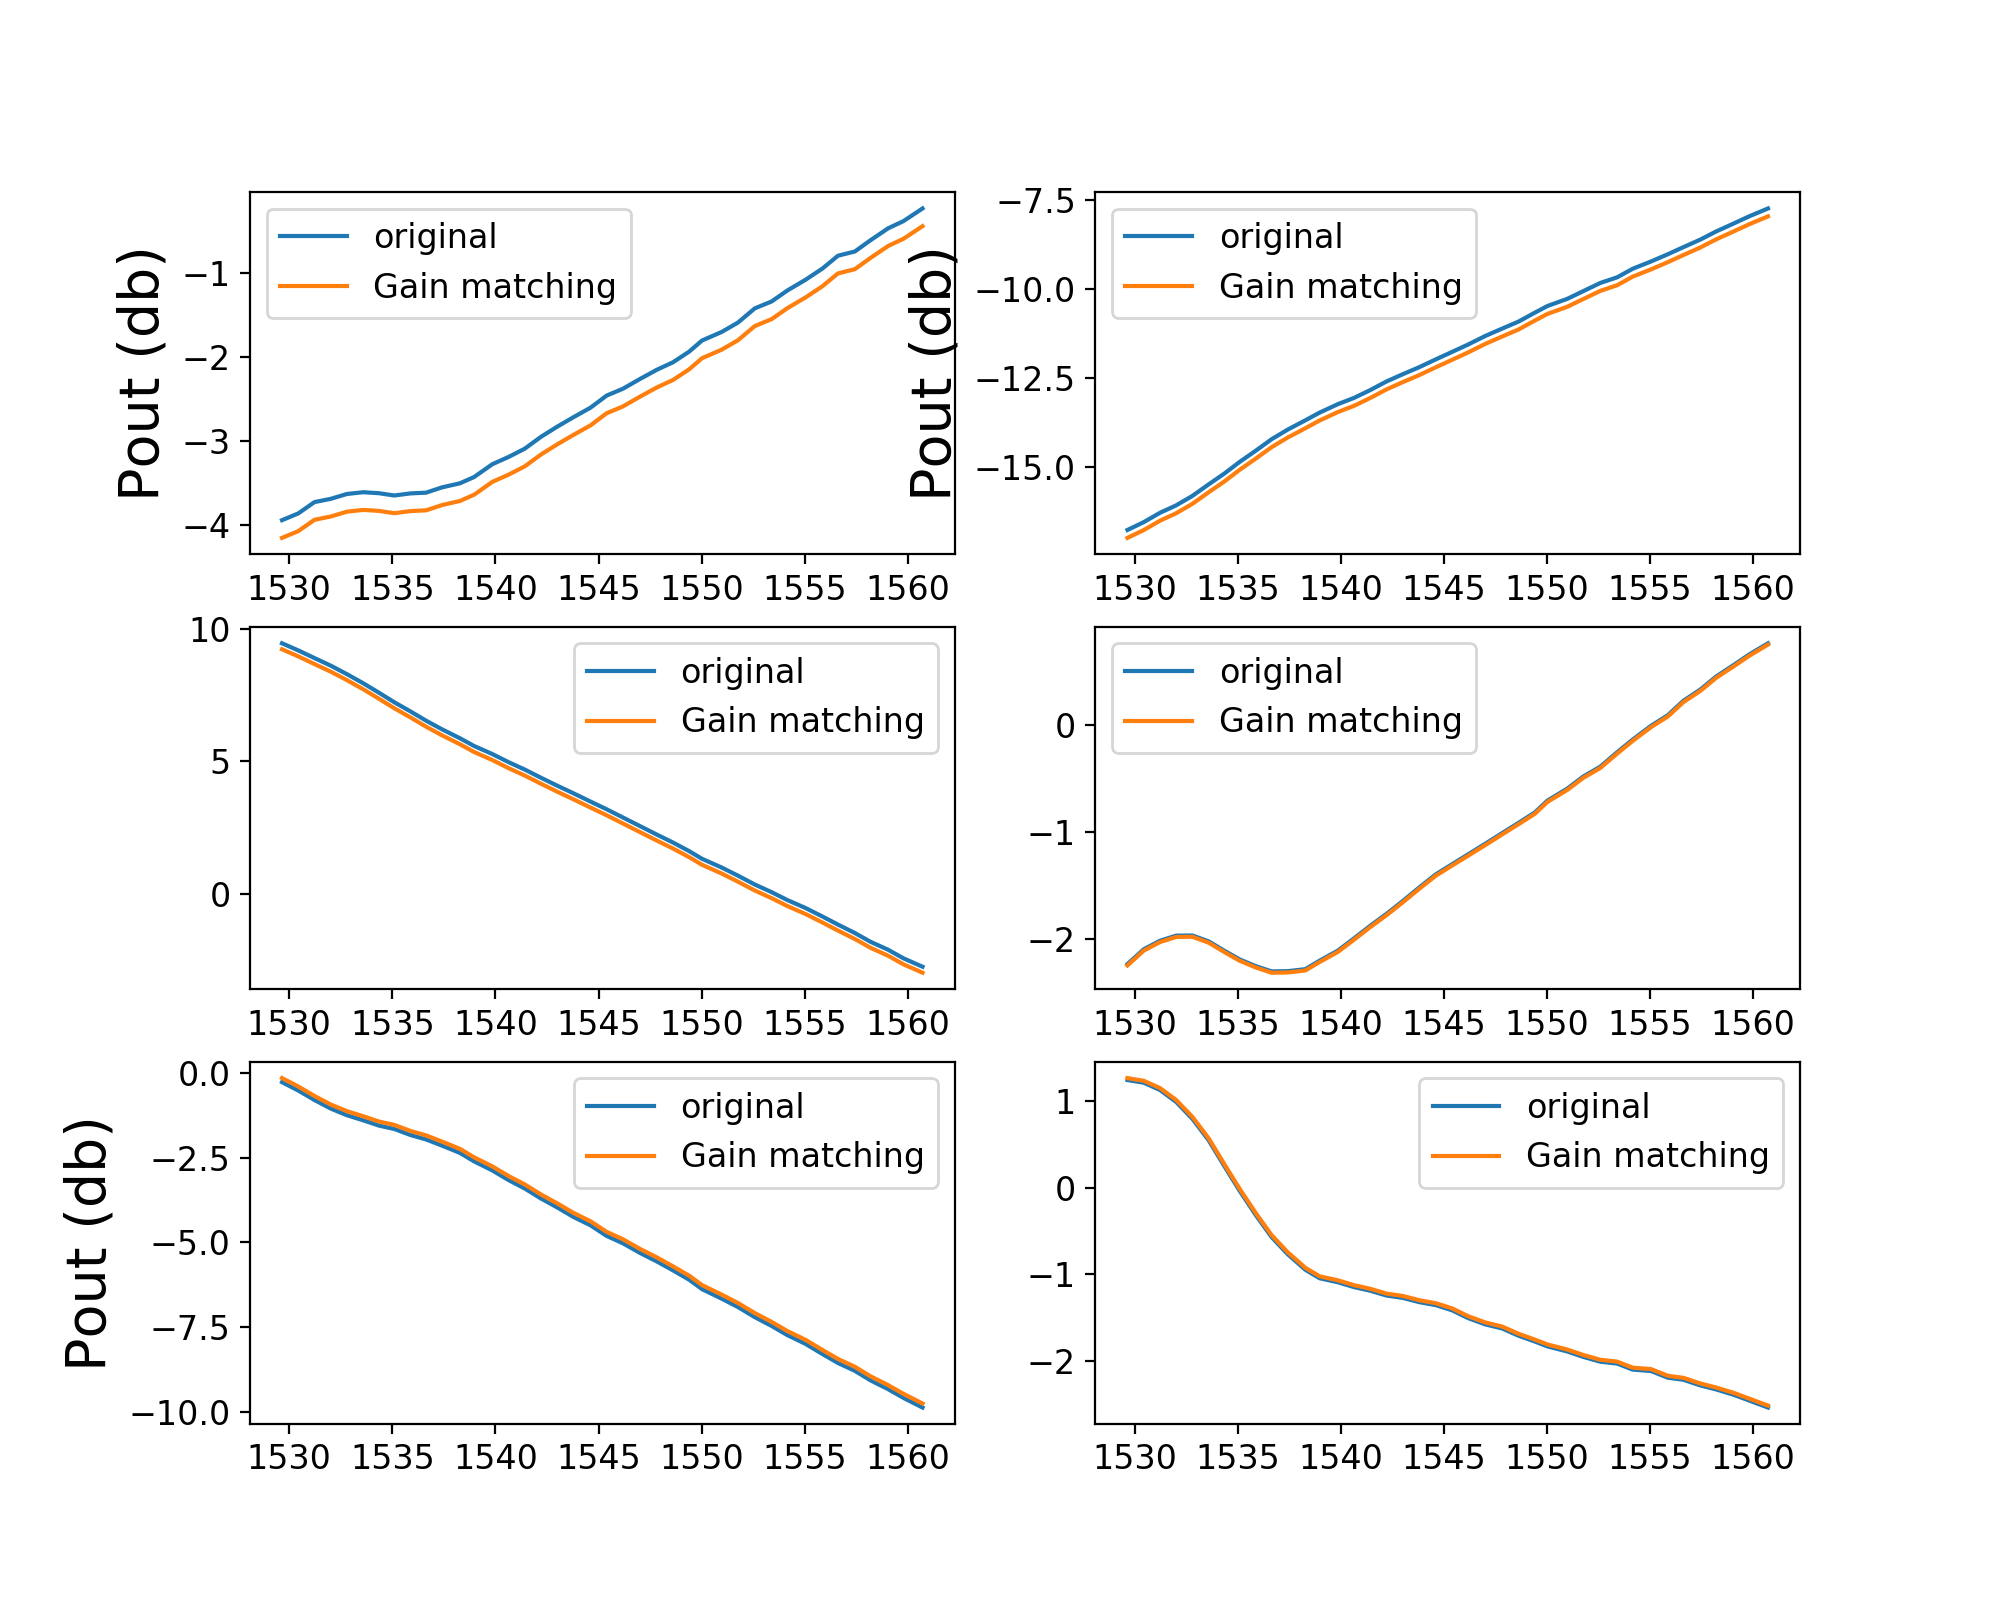
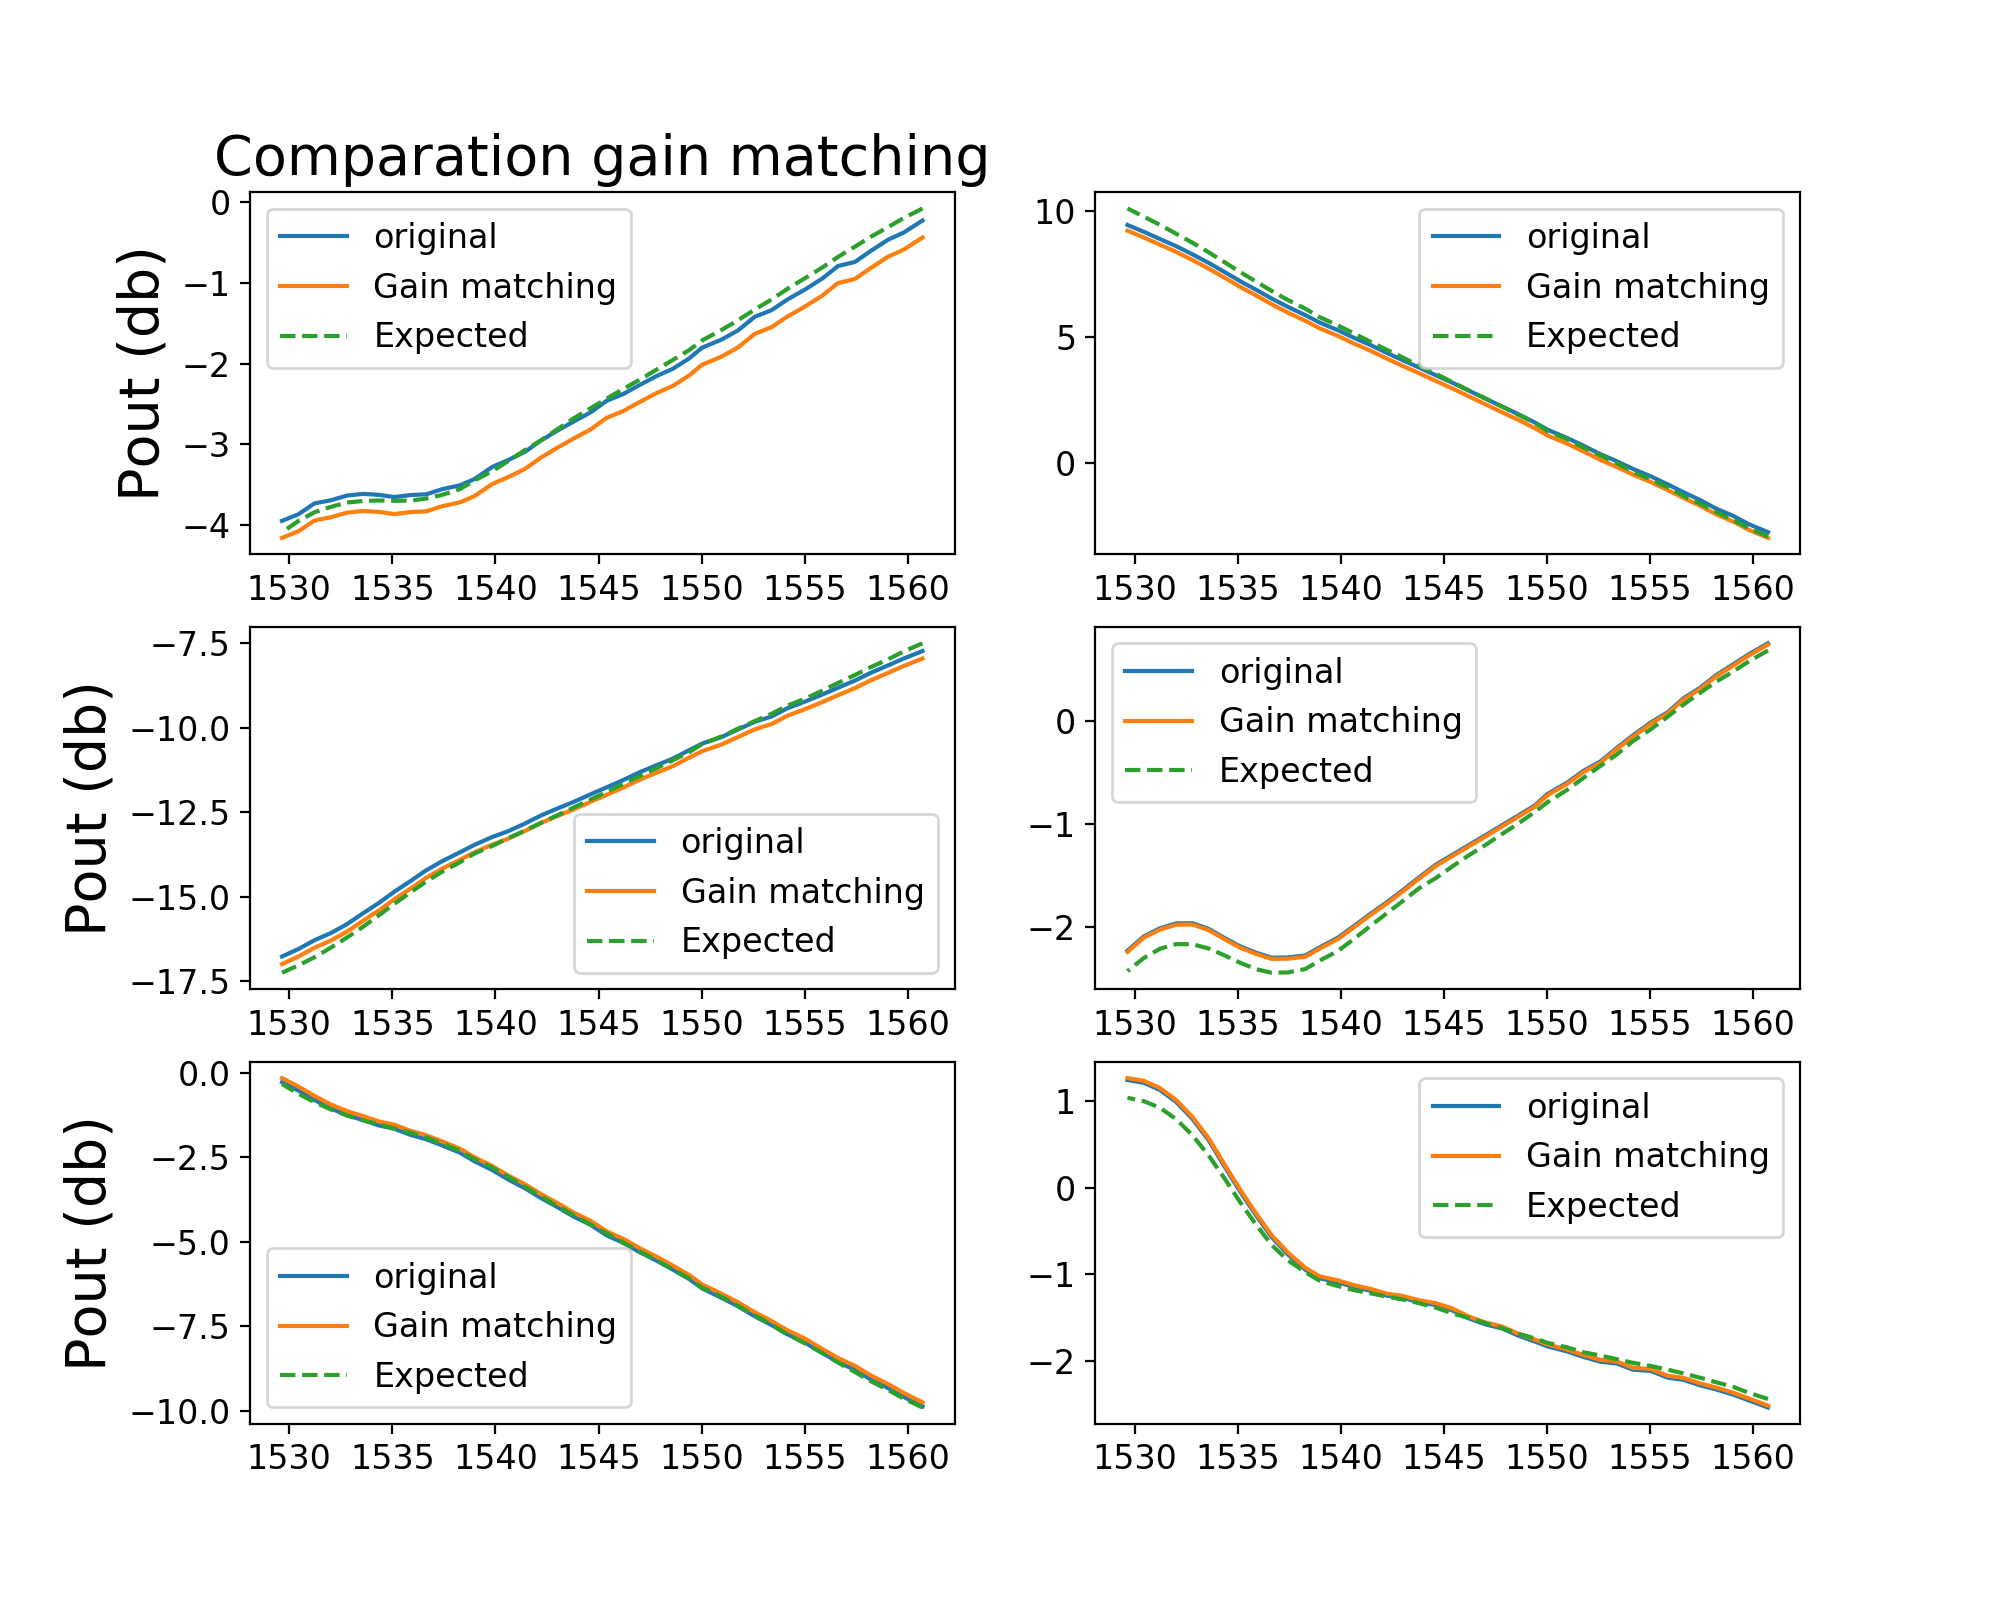
Add outro resultado

diff --git a/adaptacao/Second method/Normalization per feature/One Amp (with K-Fold Cross Validation)/errorWithBoxplot2.py b/adaptacao/Second method/Normalization per feature/One Amp (with K-Fold Cross Validation)/errorWithBoxplot2.py
@@ -640,35 +640,36 @@ diffs_io = []
 for i in range(0 , len(pred_y41)):
     diff_current = []
     for j in range(0, len(pred_y41[i])):
-        if (i == 1):
+        if (i == 2):
             if j == 1:
                 plt.figure(figsize=(10,8))
-                plt.title('Comparation gain matching')
                 plt.subplot(321)
+                plt.title('Comparation gain matching 2')
             if j == int(len(pred_y41[i])/2):
-                plt.subplot(322)
+                plt.subplot(323)
             if j == int(len(pred_y41[i])*(2/3)):
                 plt.subplot(325)
-        if (i == 3):
+        if (i == 4):
             if j == 1:
                 plt.subplot(324)
             if j == int(len(pred_y41[i])/2):
-                plt.subplot(323)
+                plt.subplot(322)
             if j == int(len(pred_y41[i])*(2/3)):
                 plt.subplot(326)
 
         current = pred_y41[i][j]
-        if (i == 1) or (i == 3):
+        if (i == 2) or (i == 4):
             if j == 1 or j == int(len(pred_y41[i])/2) or j == int(len(pred_y41[i])*(2/3)):
                 plt.plot(wavelength, current, label='original')
         
 
         current_in = pred_x41[i][j]
         current = applyGainMatching(current_in[1:], int(current_in[0]), current)
-        if (i == 1) or (i == 3):
+        if (i == 2) or (i == 4):
             if j == 1 or j == int(len(pred_y41[i])/2) or j == int(len(pred_y41[i])*(2/3)):
                 plt.plot(wavelength, current, label='Gain matching')
-                if i == 1:
+                plt.plot(wavelength, test_y41[i][j],'--' ,label='Expected')
+                if i == 2:
                     plt.ylabel('Pout (db)')
                 plt.legend()
 
@@ -681,7 +682,7 @@ for i in range(0 , len(pred_y41)):
     diffs_41.append(diff_current)
 
 
-plt.savefig('Comparation gain matching.png', dpi = 200)
+plt.savefig('Comparation gain matching 2.png', dpi = 200)
 
 if DEBUG:
     print(len(diffs_41))
